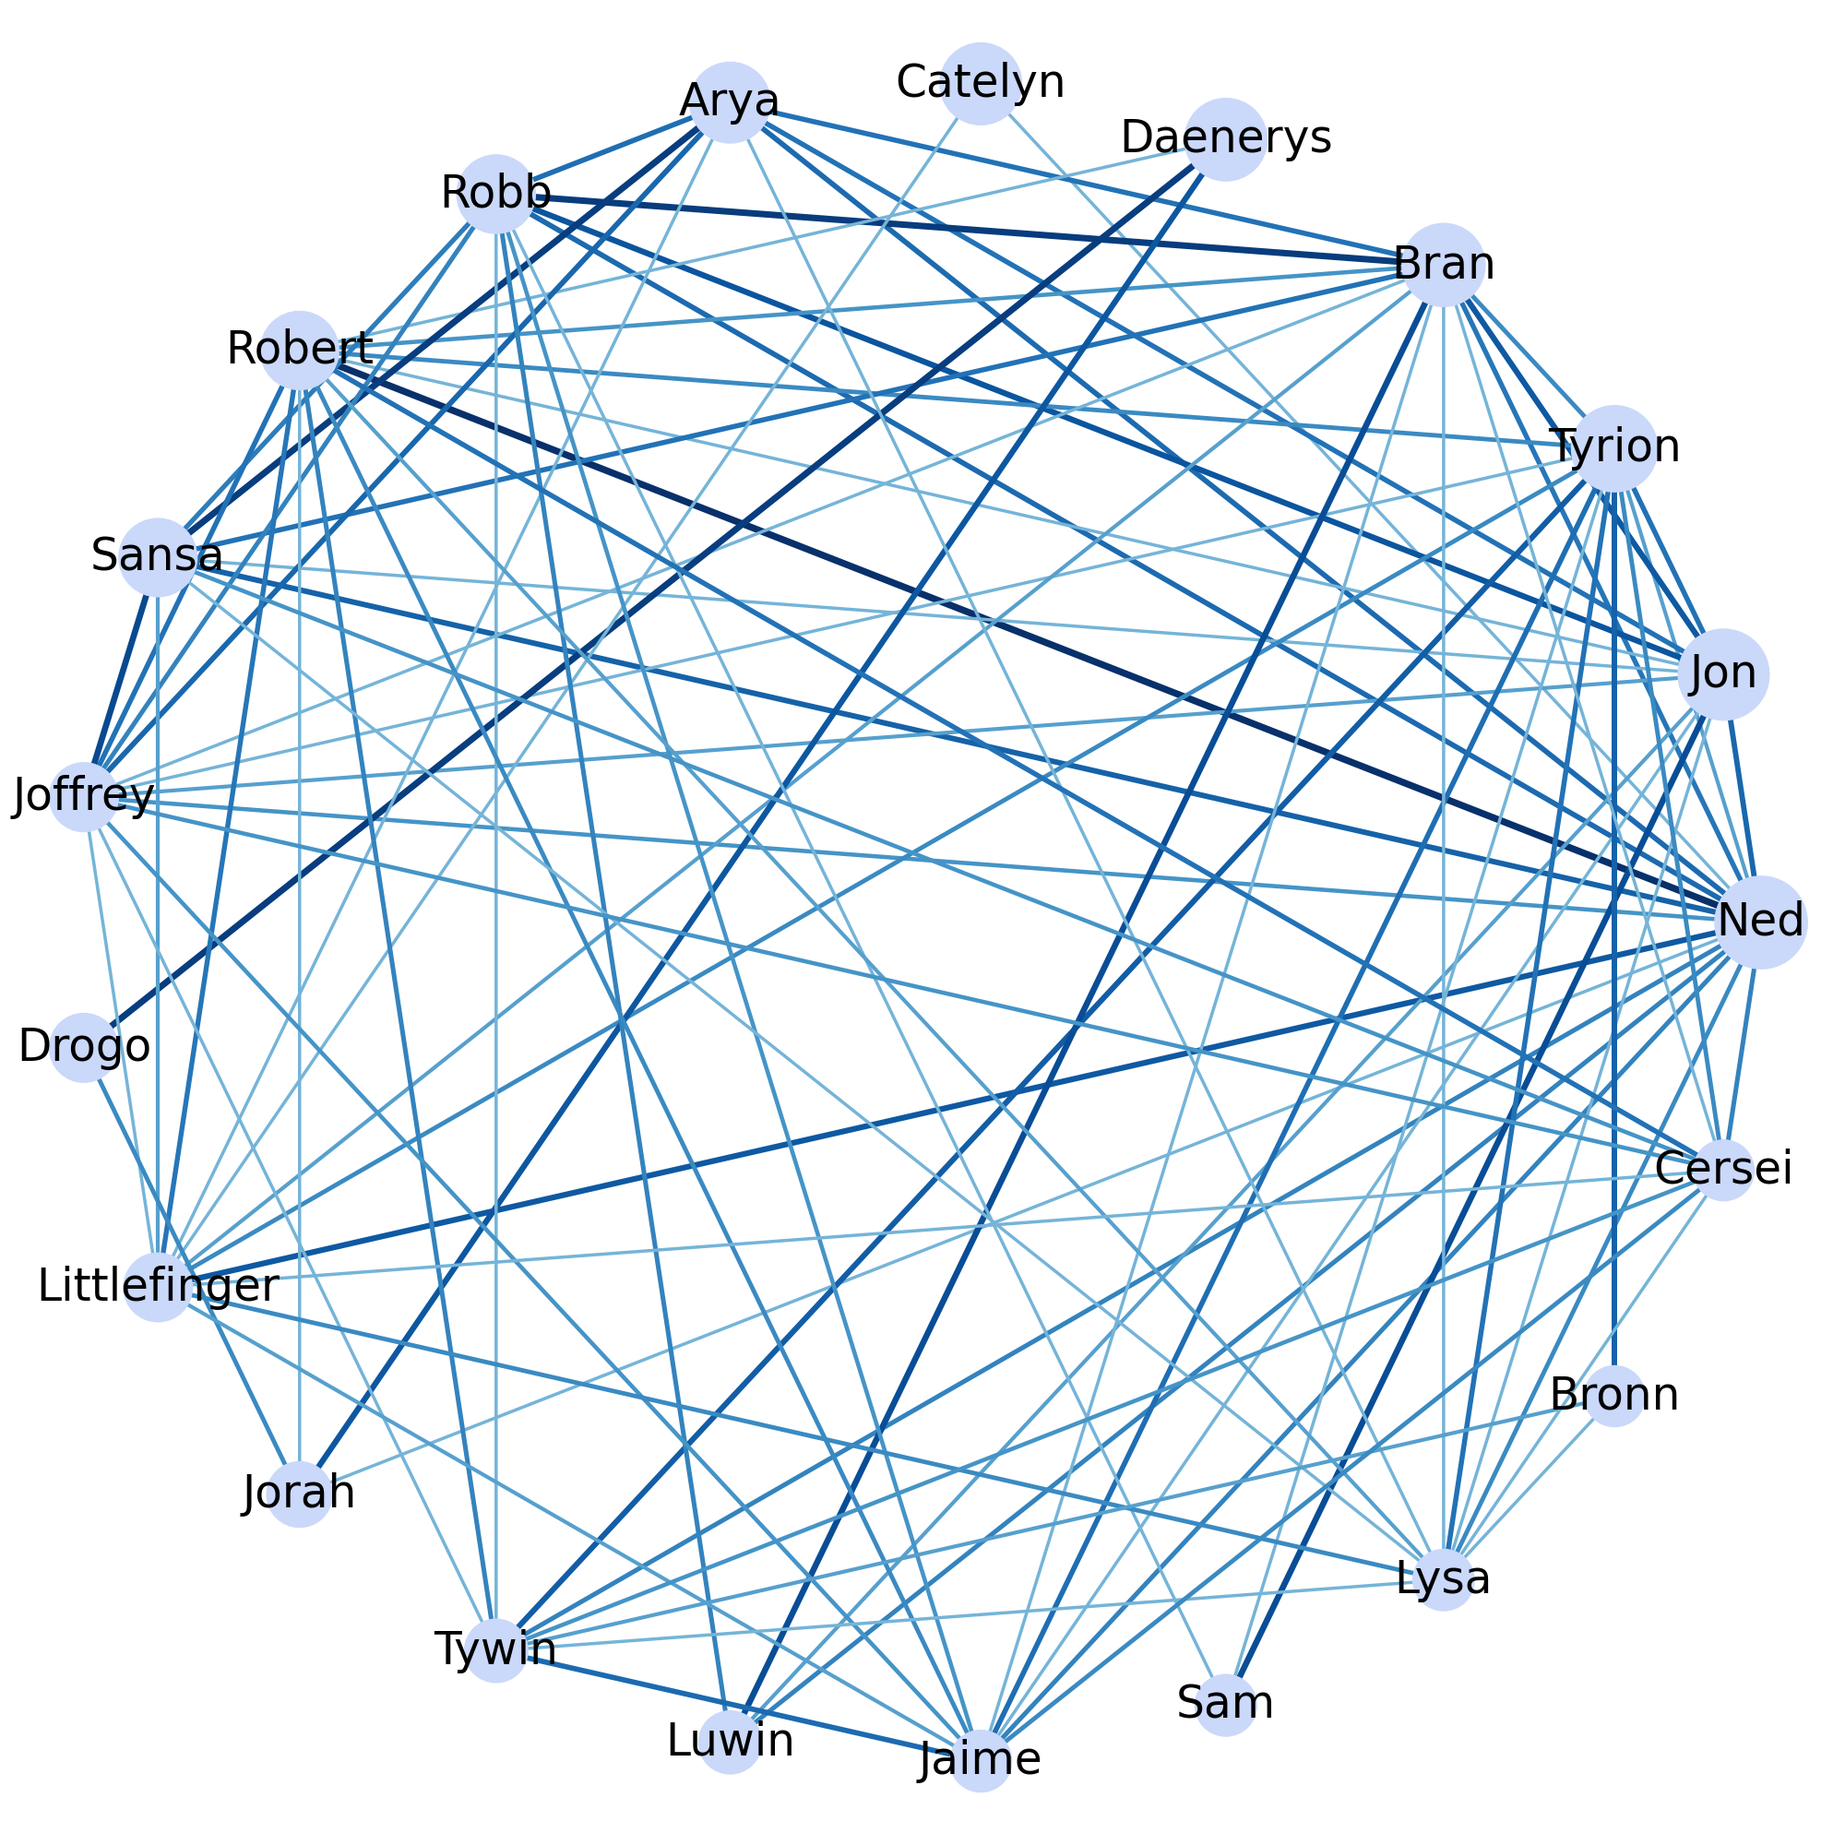
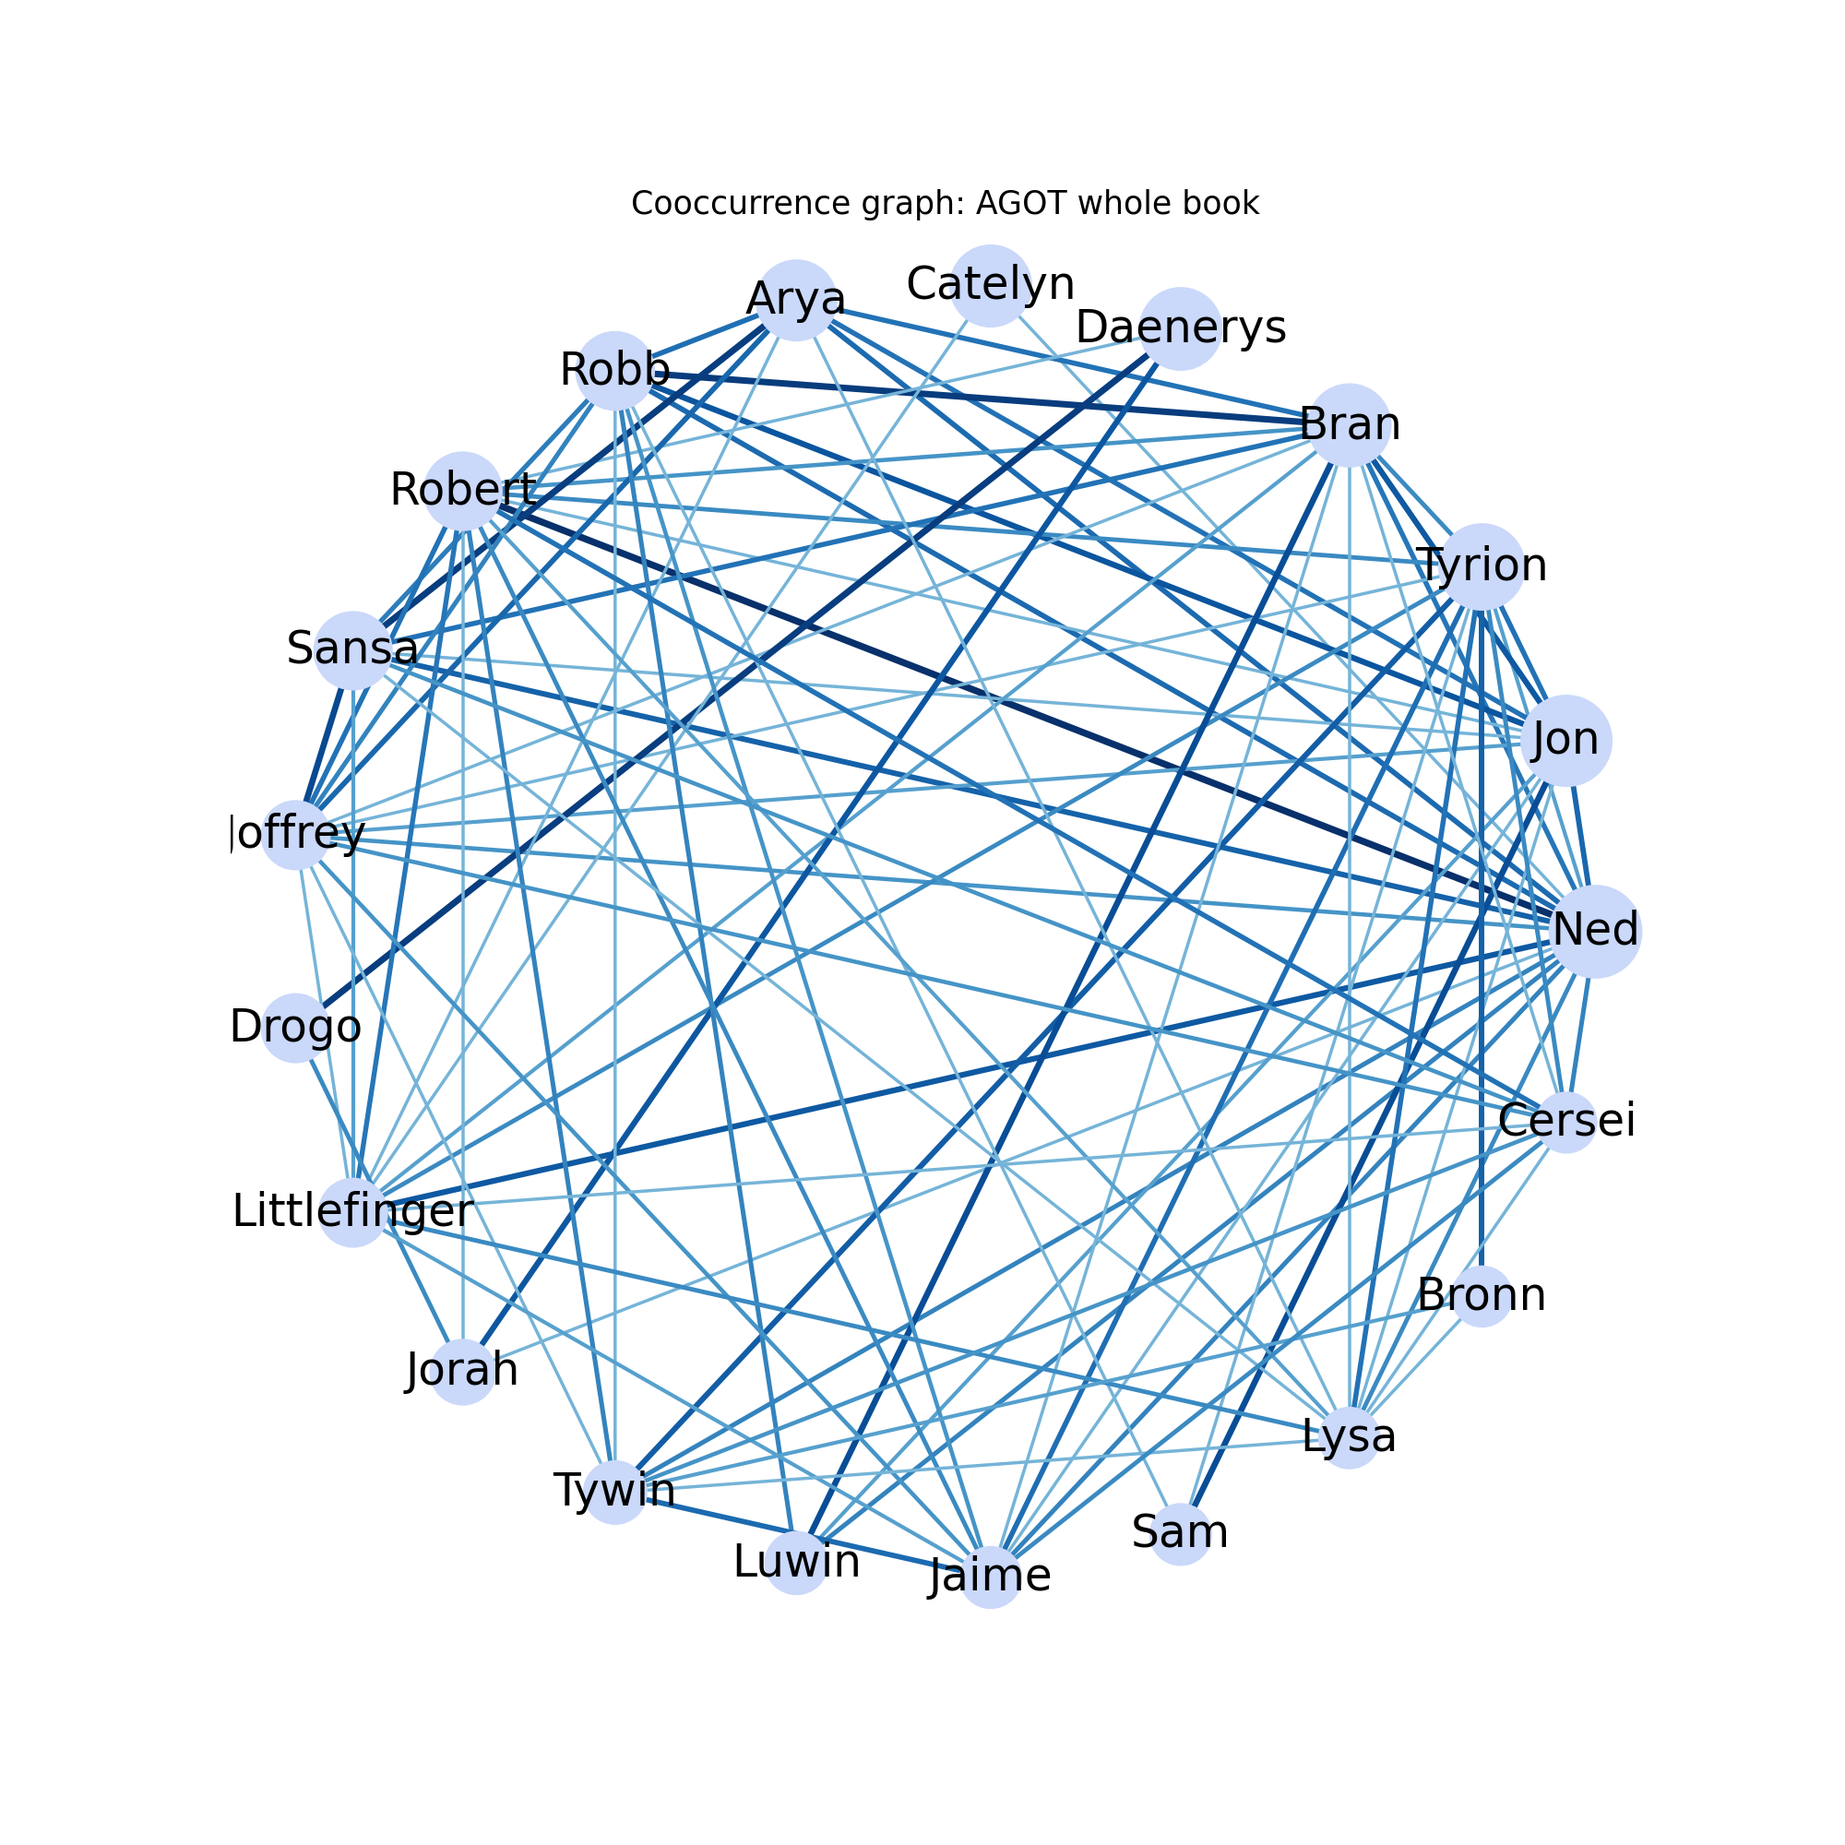
All sentimetn results

Changed region(s): [[0.0, 0.0, 0.992, 0.992]]

diff --git a/code/sentimentAnalysisGraphs.py b/code/sentimentAnalysisGraphs.py
@@ -7,7 +7,7 @@ import networkx as nx
 import operator
 
 
-from preprocessing_util.utils import get_main_characters, replace_synonyms, readBookByChapters, readWholeBook, get_main_character_occurances_for_chapters
+from preprocessing_util.utils import get_main_characters, replace_synonyms, readBookByChapters, readWholeBook, get_main_character_occurances_for_chapters, read_text
 from sentimentAnalysis import vaderSentiment, afinnSentiment, textblobSentiment
 
 
@@ -20,20 +20,31 @@ def find_zero_indexes(matrix):
     return result
 
 
-def get_edge_list(matrix, main_characters, type):
+def get_edge_list_coocur(matrix, main_characters):
     edge_list = []
     triangle_lower = np.triu(np.ones([matrix.shape[0], matrix.shape[0]]))
     triangle_lower_zeros = find_zero_indexes(triangle_lower)
 
     normalized_mtx = matrix / np.max(np.abs(matrix))
 
-    # can fiddle with parameters
-    if type == 'sentiment':
-        weight = np.log(np.abs(1000 * normalized_mtx) + 1) * 0.7
-        color = 2000 * normalized_mtx
-    else:
-        weight = np.log(2000 * normalized_mtx + 1) * 0.7
-        color = np.log(2000 * normalized_mtx + 1)
+    weight = np.log(2000 * normalized_mtx + 1) * 0.7
+    color = np.log(2000 * normalized_mtx + 1)
+
+    for (i, j) in triangle_lower_zeros:
+        edge_list.append((main_characters[i], main_characters[j], {'weight': weight[(i, j)], 'color': color[(i, j)]}))
+
+    return edge_list
+
+
+def get_edge_list_sentiment(matrix, main_characters):
+    edge_list = []
+    triangle_lower = np.triu(np.ones([matrix.shape[0], matrix.shape[0]]))
+    triangle_lower_zeros = find_zero_indexes(triangle_lower)
+
+    normalized_mtx = matrix / np.max(np.abs(matrix))
+
+    weight = np.log(np.abs(1000 * normalized_mtx) + 1) * 0.7
+    color = 2000 * normalized_mtx
 
     for (i, j) in triangle_lower_zeros:
         edge_list.append((main_characters[i], main_characters[j], {'weight': weight[(i, j)], 'color': color[(i, j)]}))
@@ -48,9 +59,13 @@ def plot_relationship_graph(main_characters_dict, matrix, type, save_file, title
     main_characters_freq = list(main_characters_dict.values())
     normalized_main_characters_freq = np.array(main_characters_freq) / np.max(main_characters_freq)
 
-    edge_list = get_edge_list(matrix, main_characters, type)
+    if type == 'sentiment':
+        edge_list = get_edge_list_sentiment(matrix, main_characters)
+    else:
+        edge_list = get_edge_list_coocur(matrix, main_characters)
 
     fig = plt.figure(figsize=(20, 20))
+    plt.title(title, fontsize=25)
     G = nx.Graph()
     G.add_nodes_from(main_characters)
     G.add_edges_from(edge_list)
@@ -67,8 +82,6 @@ def plot_relationship_graph(main_characters_dict, matrix, type, save_file, title
                 linewidths=10, font_size=35, labels=label, edge_color=colors, with_labels=True, width=weights)
 
     # fig.set_facecolor('#e3e3e3')
-    plt.title()
-    # plt.show()
     plt.savefig(save_file)
     plt.close(fig)
 
@@ -86,58 +99,69 @@ if __name__ == '__main__':
     number_of_chapters = 8
     # 21 include Cersei, 27 incluide Viserys
     number_of_characters = 21
-    exclude = ["Lannister", "Jory", "Hand", "Stark", "Mormont"]
+    exclude = ["Lannister", "Jory", "Hand", "Stark", "Mormont", "Grace"]
 
     # affin, vader, text
-    ana_type = "affin"
+    ana_type = "vader"
 
-    while start_chapter < all_chapters:
-        end_chapter = min(73, start_chapter + number_of_chapters)
+    # while start_chapter < all_chapters:
+    #     end_chapter = min(73, start_chapter + number_of_chapters)
+    #
+    #     # text = readBookByChapters("../results/books/ASongOfIceAndFire/AGOT/chapters_coref_text/", start_chapter, end_chapter)
+    #     text = readBookByChapters("../data/books/ASongOfIceAndFire/AGOT/chapters/", start_chapter, end_chapter)
+    #
+    #     text = replace_synonyms(text)
+    #     sentences = sent_tokenize(text)
+    #
+    #     # mc = get_main_characters("../results/books/ASongOfIceAndFire/AGOT/chapters_coref/", number_of_characters, exclude, chapters=True)
+    #     mc = get_main_characters("../results/books/ASongOfIceAndFire/AGOT/unique_names", number_of_characters, exclude, chapters=False)
+    #
+    #     print(mc)
+    #
+    #     # main_characters_dict = get_main_character_occurances_for_chapters("../results/books/ASongOfIceAndFire/AGOT/chapters_coref/", mc, start_chapter, end_chapter)
+    #     main_characters_dict = get_main_character_occurances_for_chapters("../results/books/ASongOfIceAndFire/AGOT/chapters/", mc, start_chapter, end_chapter)
+    #
+    #     main_characters = list(main_characters_dict.keys())
+    #     main_characters = list(map(str.lower, main_characters))
+    #
+    #     # chose different sentiment analysis
+    #     if ana_type == 'affin':
+    #         sentiment_mtx, cooccurance_mtx = afinnSentiment(sentences, main_characters)
+    #     elif ana_type == 'vader':
+    #         sentiment_mtx, cooccurance_mtx = vaderSentiment(sentences, main_characters)
+    #         sentiment_mtx = (sentiment_mtx / 4) * 5
+    #     else:
+    #         sentiment_mtx, cooccurance_mtx = textblobSentiment(sentences, main_characters)
+    #         sentiment_mtx = sentiment_mtx * 5
+    #
+    #
+    #     # save_file_sent = "../results/books/ASongOfIceAndFire/AGOT/sentiment/coref_first/"+ ana_type + "/sentiment_chapters_" + str(start_chapter) + "_" + str(end_chapter) + ".png"
+    #     # save_file_coo = "../results/books/ASongOfIceAndFire/AGOT/sentiment/coref_first/" + ana_type + "/coocurance_chapters_" + str(start_chapter) + "_" + str(end_chapter) + ".png"
+    #     save_file_sent = "../results/books/ASongOfIceAndFire/AGOT/sentiment/normal/" + ana_type + "/sentiment_chapters_" + str(start_chapter) + "_" + str(end_chapter) + ".png"
+    #     save_file_coo = "../results/books/ASongOfIceAndFire/AGOT/sentiment/normal/" + ana_type + "/coocurance_chapters_" + str(start_chapter) + "_" + str(end_chapter) + ".png"
+    #
+    #     title1 = "Relationship graph: chapters_" + str(start_chapter) + "_" + str(end_chapter - 1)
+    #     title2 = "Cooccurrence graph: chapters_" + str(start_chapter) + "_" + str(end_chapter - 1)
+    #
+    #     plot_relationship_graph(main_characters_dict, sentiment_mtx, "sentiment", save_file_sent, title1)
+    #     plot_relationship_graph(main_characters_dict, cooccurance_mtx, "coocurance", save_file_coo, title2)
+    #
+    #     start_chapter += number_of_chapters
 
-        text = readBookByChapters("../results/books/ASongOfIceAndFire/AGOT/chapters_coref_text/", start_chapter, end_chapter)
-        text = replace_synonyms(text)
-        sentences = sent_tokenize(text)
 
-        # mc = get_main_characters("../results/books/ASongOfIceAndFire/AGOT/unique_names", number_of_characters, exclude)
-        mc = get_main_characters("../results/books/ASongOfIceAndFire/AGOT/chapters_coref/", number_of_characters, exclude, chapters=True)
-
-        print(mc)
-
-        main_characters_dict = get_main_character_occurances_for_chapters("../results/books/ASongOfIceAndFire/AGOT/chapters_coref/", mc, start_chapter, end_chapter)
-        main_characters = list(main_characters_dict.keys())
-        main_characters = list(map(str.lower, main_characters))
-
-        # chose different sentiment analysis
-        if ana_type == 'affin':
-            sentiment_mtx, cooccurance_mtx = afinnSentiment(sentences, main_characters)
-        elif ana_type == 'vader':
-            sentiment_mtx, cooccurance_mtx = vaderSentiment(sentences, main_characters)
-            sentiment_mtx = (sentiment_mtx / 4) * 5
-        else:
-            sentiment_mtx, cooccurance_mtx = textblobSentiment(sentences, main_characters)
-            sentiment_mtx = sentiment_mtx / 4
-
-
-        save_file_sent = "../results/books/ASongOfIceAndFire/AGOT/sentiment/coref_first/"+ ana_type + "/sentiment_chapters_" + str(start_chapter) + "_" + str(end_chapter) + ".png"
-        save_file_coo = "../results/books/ASongOfIceAndFire/AGOT/sentiment/coref_first/" + ana_type + "/coocurance_chapters_" + str(start_chapter) + "_" + str(end_chapter) + ".png"
-        title = "chapters_" + str(start_chapter) + "_" + str(end_chapter)
-
-        plot_relationship_graph(main_characters_dict, sentiment_mtx, "sentiment", save_file_sent, title)
-        plot_relationship_graph(main_characters_dict, cooccurance_mtx, "coocurance", save_file_coo, title)
-
-        start_chapter += number_of_chapters
-
-
-
-
+###############################################################################################################
 
     # whole book sentiment analysis + plotting
-    book = readWholeBook("../results/books/ASongOfIceAndFire/AGOT/chapters_coref_text/")
+    # book = readWholeBook("../results/books/ASongOfIceAndFire/AGOT/chapters_coref_text/")
+    # book = readWholeBook("../data/books/ASongOfIceAndFire/ACOK/chapters/")
+    book = read_text("../data/books/ASongOfIceAndFire/ASOS/AStormOfSwords")
+    # print(book)
     book = replace_synonyms(book)
     sentences = sent_tokenize(book)
 
-    # main_characters_dict = get_main_characters("../results/books/ASongOfIceAndFire/AGOT/unique_names", number_of_characters, exclude)
-    main_characters_dict = get_main_characters("../results/books/ASongOfIceAndFire/AGOT/chapters_coref/", number_of_characters, exclude, chapters=True)
+    # main_characters_dict = get_main_characters("../results/books/ASongOfIceAndFire/AGOT/chapters_coref/", number_of_characters, exclude, chapters=True)
+    main_characters_dict = get_main_characters("../results/books/ASongOfIceAndFire/ASOS/unique_names", number_of_characters, exclude, chapters=False)
+    print(main_characters_dict)
 
     main_characters = list(main_characters_dict.keys())
     main_characters = list(map(str.lower, main_characters))
@@ -152,10 +176,14 @@ if __name__ == '__main__':
         sentiment_mtx, cooccurance_mtx = textblobSentiment(sentences, main_characters)
         sentiment_mtx = sentiment_mtx / 4
 
-    save_file_sent = "../results/books/ASongOfIceAndFire/AGOT/sentiment/coref_first/" + ana_type + "/sentiment_chapters_whole.png"
-    save_file_coo = "../results/books/ASongOfIceAndFire/AGOT/sentiment/coref_first/" + ana_type + "/coocurance_chapters_whole.png"
-    title = "Whole book"
+    # save_file_sent = "../results/books/ASongOfIceAndFire/AGOT/sentiment/coref_first/" + ana_type + "/sentiment_chapters_whole.png"
+    # save_file_coo = "../results/books/ASongOfIceAndFire/AGOT/sentiment/coref_first/" + ana_type + "/coocurance_chapters_whole.png"
+    save_file_sent = "../results/books/ASongOfIceAndFire/ASOS/sentiment/normal/" + ana_type + "/sentiment_chapters_whole.png"
+    save_file_coo = "../results/books/ASongOfIceAndFire/ASOS/sentiment/normal/" + ana_type + "/coocurance_chapters_whole.png"
 
-    plot_relationship_graph(main_characters_dict, sentiment_mtx, "sentiment", save_file_sent)
-    plot_relationship_graph(main_characters_dict, cooccurance_mtx, "coocurance", save_file_coo)
+    title1 = "Relationship graph: ASOS whole book"
+    title2 = "Cooccurrence graph: ASOS whole book"
+
+    plot_relationship_graph(main_characters_dict, sentiment_mtx, "sentiment", save_file_sent, title1)
+    plot_relationship_graph(main_characters_dict, cooccurance_mtx, "coocurance", save_file_coo, title2)
 

diff --git a/code/preprocessing_util/utils.py b/code/preprocessing_util/utils.py
@@ -14,7 +14,7 @@ def get_character_synonyms_dict():
             "Tyrion": ["Tyrion Lannister", "Tyrion the Imp"],
             "Arya": ["Arya Stark"],
             "Bran": ["Bran Stark"],
-            "Catelyn": ["Catelyn Tully Stark", "Catelyn Stark", "Cat", "Catelyn Tully"],
+            "Catelyn": ["Catelyn Tully Stark", "Catelyn Stark", "Cat", "Catelyn Tully", "Lady Catelyn"],
             "Daenerys": ["Dany", "Daenerys Targaryen", "Khaleesi", "Daenerys Stormborn"],
             "Viserys": ["Viserys Targaryen"],
             "Sansa": ["Sansa Stark", "Lady Sansa"],
@@ -30,7 +30,7 @@ def get_character_synonyms_dict():
             "Luwin": ["Maester Luwin"],
             "Rodrik": ["Ser Rodrik"],
             "Drogo": ["Khal Drogo"],
-            "Jaime": ["Jaime Lannister"],
+            "Jaime": ["Jaime Lannister", "Kingslayer"],
             "Varys": ["the Spider"],
             "Aemon": ["Maester Aemon"],
             "Cersei": ["Cersei Lannister"],
@@ -48,6 +48,9 @@ def get_character_synonyms_dict():
             "Walder": ["Lord Walder"],
             "Brynden": ["Ser Brynden Tully", "Blackfish", "Ser Brynden", "Brynden Tully", "Brynden Blackfish", "Uncle Brynden"],
             "Elia": ["Elia Martell"],
+            "Mance": ["Mance Rayder"],
+            "Oberyn": ["Prince Oberyn", "Oberyn Martell", "The Viper", "Viper"],
+            "Qhorin": ["Qhorin Halfhand", "Halfhand"],
             "Fill1": ["Robert Arryn"],
             "Fill2": ["Jon Arryn"]}
 
@@ -67,6 +70,14 @@ def read_text_og(path):
         text = f.read()
         # text = text.replace('\r', ' ').replace('\n', ' ')\
         #     .replace("’", "'").replace("\"", "").replace("”", "").replace("“", "")
+    return text
+
+
+def read_text(path):
+    with open(path, encoding="utf-8") as f:
+        text = f.read()
+        text = text.replace('\r', ' ').replace('\n', ' ')\
+            .replace("’", "'").replace("\"", "").replace("”", "").replace("“", "")
     return text
 
 
@@ -247,7 +258,7 @@ if __name__ == "__main__":
     # f.close()
     # print(unique_names[0][0])
 
-    main_characters = get_main_characters("../../results/books/ASongOfIceAndFire/AGOT/unique_names", 25, ["Lannister", "Jory", "Hand", "Stark", "Mormont"])
+    main_characters = get_main_characters("../../results/books/ASongOfIceAndFire/ASOS/unique_names", 21000, ["Lannister", "Jory", "Hand", "Stark", "Mormont"], chapters=False)
 
     print(main_characters)
     # print(replace_synonyms("Eddard Stark went to the moon"))

diff --git a/code/mainCharacters.py b/code/mainCharacters.py
@@ -1,0 +1,8 @@
+import os
+
+
+
+if __name__ == '__main__':
+
+
+    for
